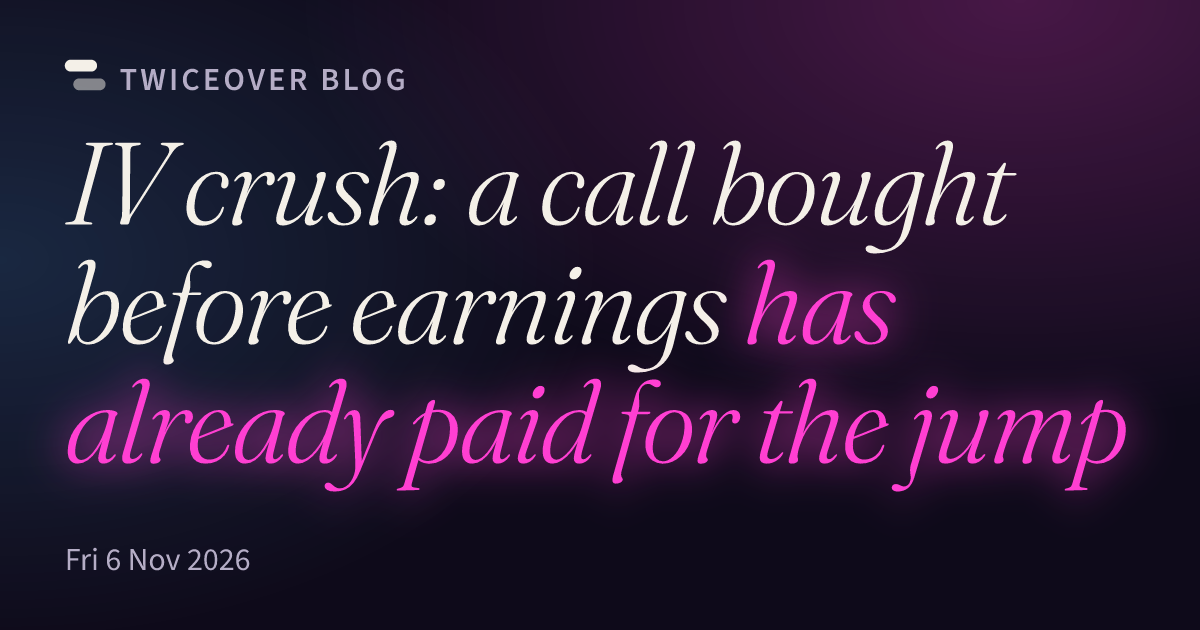
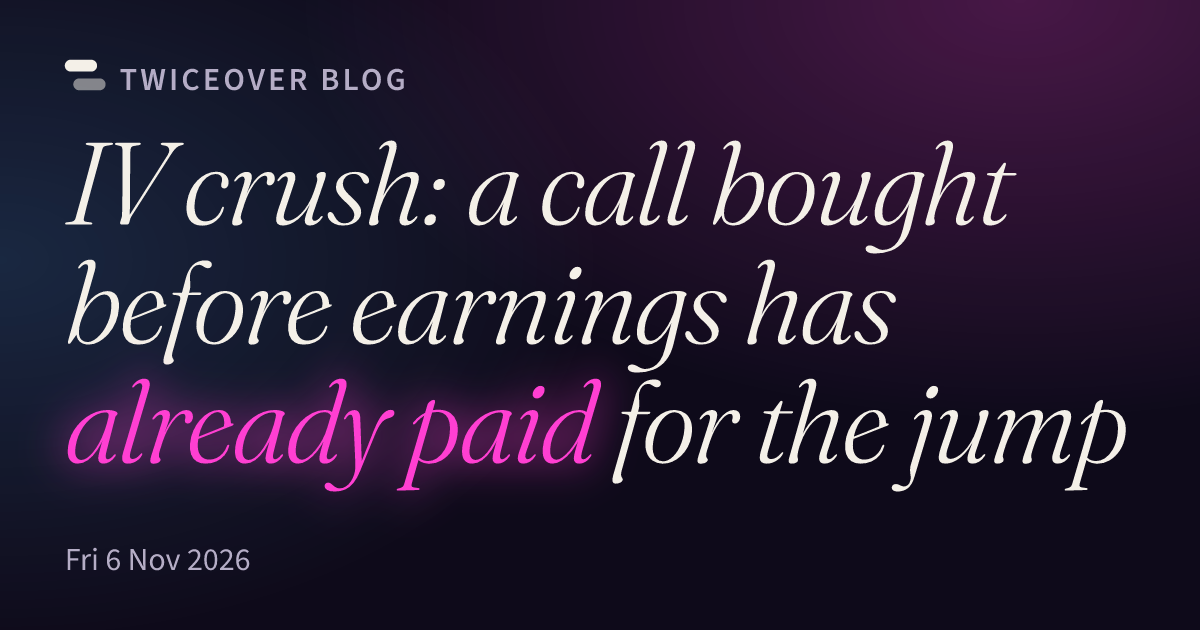
growth(stock-analyst-platform#4279): blog post iv-crush - shorter marked words so the index tile holds them

Changed region(s): [[0.4933, 0.3921, 0.9558, 0.7841]]

diff --git a/src/content/blog/iv-crush-call-before-earnings.md b/src/content/blog/iv-crush-call-before-earnings.md
@@ -6,7 +6,7 @@ topic: "option-math"
 lens: "concept"
 build: "text-led"
 look: "neon"
-hit: "has already paid for the jump"
+hit: "already paid"
 sources: "Black and Scholes, 1973; Overnight call calculator | https://twiceover.io/blog/tools/overnight-call; Own calculation"
 ---
 
